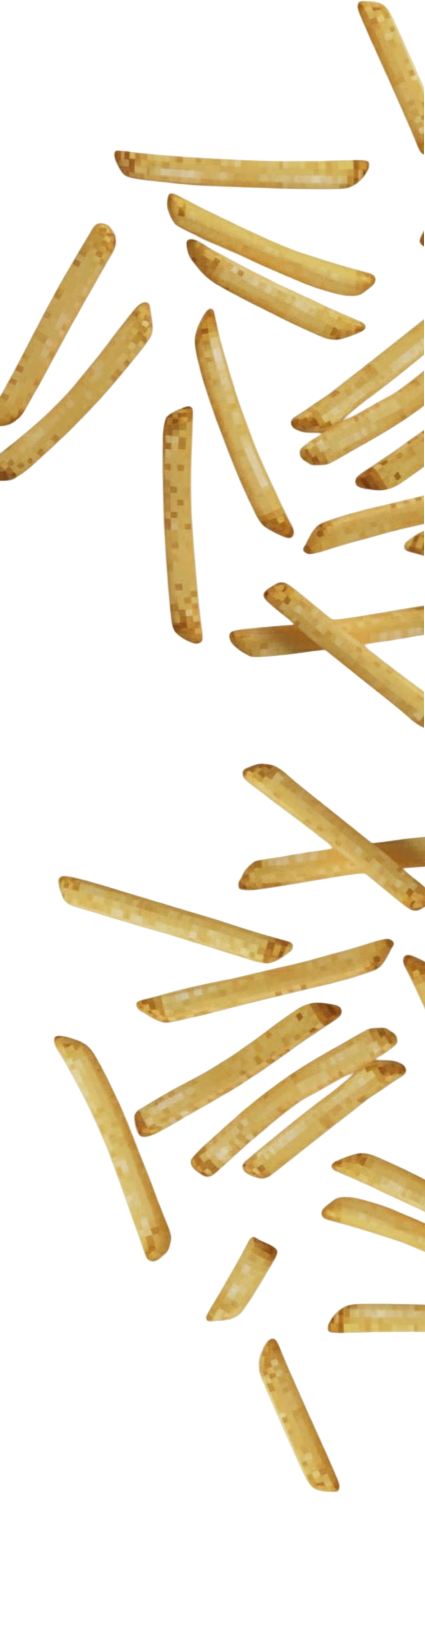
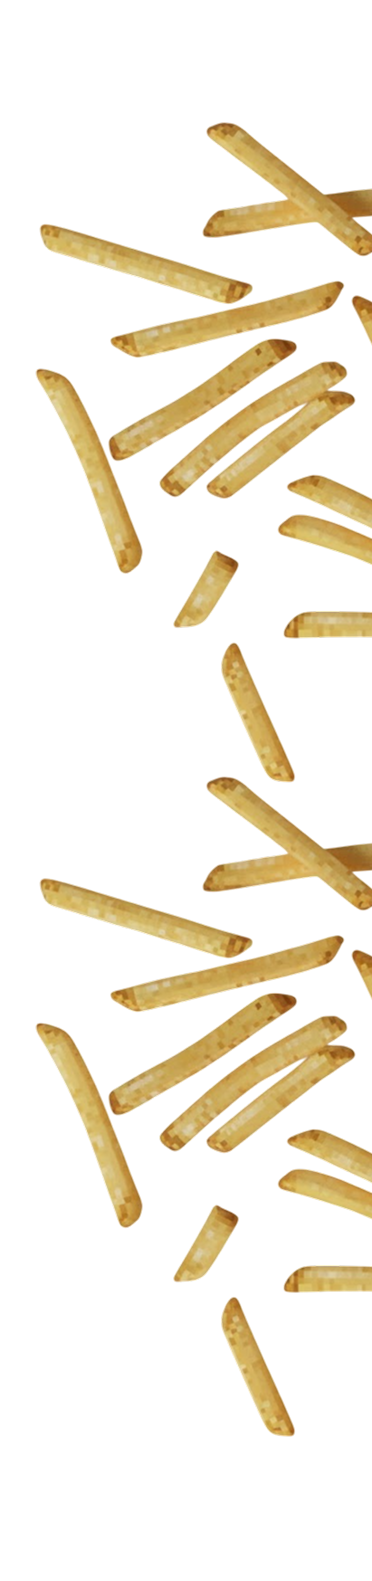
aggiunta patatine sfondo desktop

diff --git a/menu/descrizione-piatto-3.html b/menu/descrizione-piatto-3.html
@@ -74,6 +74,8 @@
 
     <div class="container-fluid text-center redstone-background g-0">
         <div class="row py-5 g-0">
+            <img id="decoration-fries-right" src="../img/body/piattosingolo3/sfondo-patatine1.png" class="d-none d-lg-block"
+            alt="decorazione sfondo patatine">
             <div class="col-12 pb-5 d-flex justify-content-center">
                 <h2>Il tuo Craft</h2>
             </div>
@@ -115,6 +117,8 @@
     
     <div class="container-fluid text-center first-background g-0">
         <div class="row py-5 g-0">
+            <img id="decoration-fries-left" src="../img/body/piattosingolo3/sfondo-patatine2.png" class="d-none d-lg-block"
+            alt="decorazione sfondo patatine">
             <div class="col-12 pb-5 d-flex justify-content-center">
                 <h2>Ingredienti</h2>
             </div>

diff --git a/css/piattosingolo1.css b/css/piattosingolo1.css
@@ -217,6 +217,20 @@
     top: 200%;
 }
 
+#decoration-fries-right {
+    position: absolute;
+    width: 18%;
+    left: 84%;
+    top: 0%;
+}
+
+#decoration-fries-left {
+    position: absolute;
+    width: 18%;
+    right: 84%;
+    top: 320%;
+}
+
 /* --- RESPONSIVE DESKTOP (Da 992px in su) --- */
 @media (min-width: 1920px) {
     .allergens-card {
